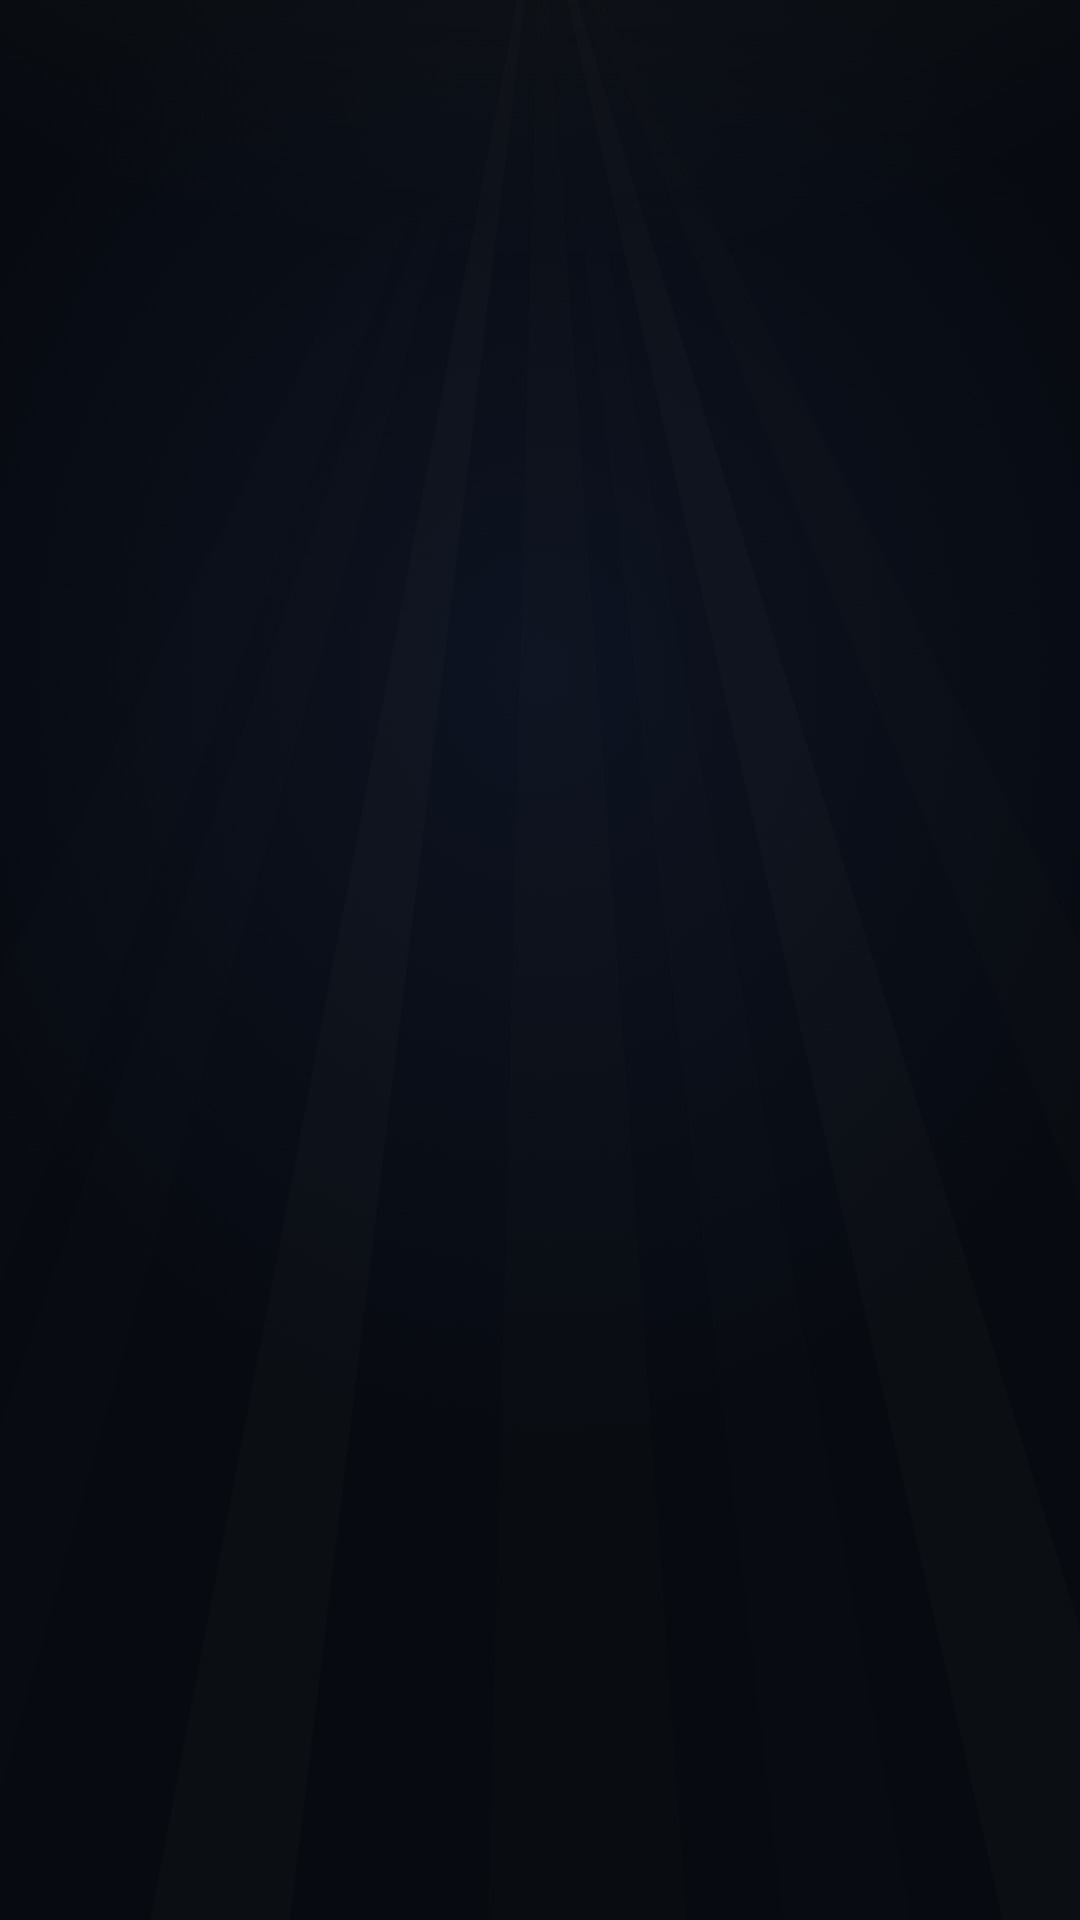
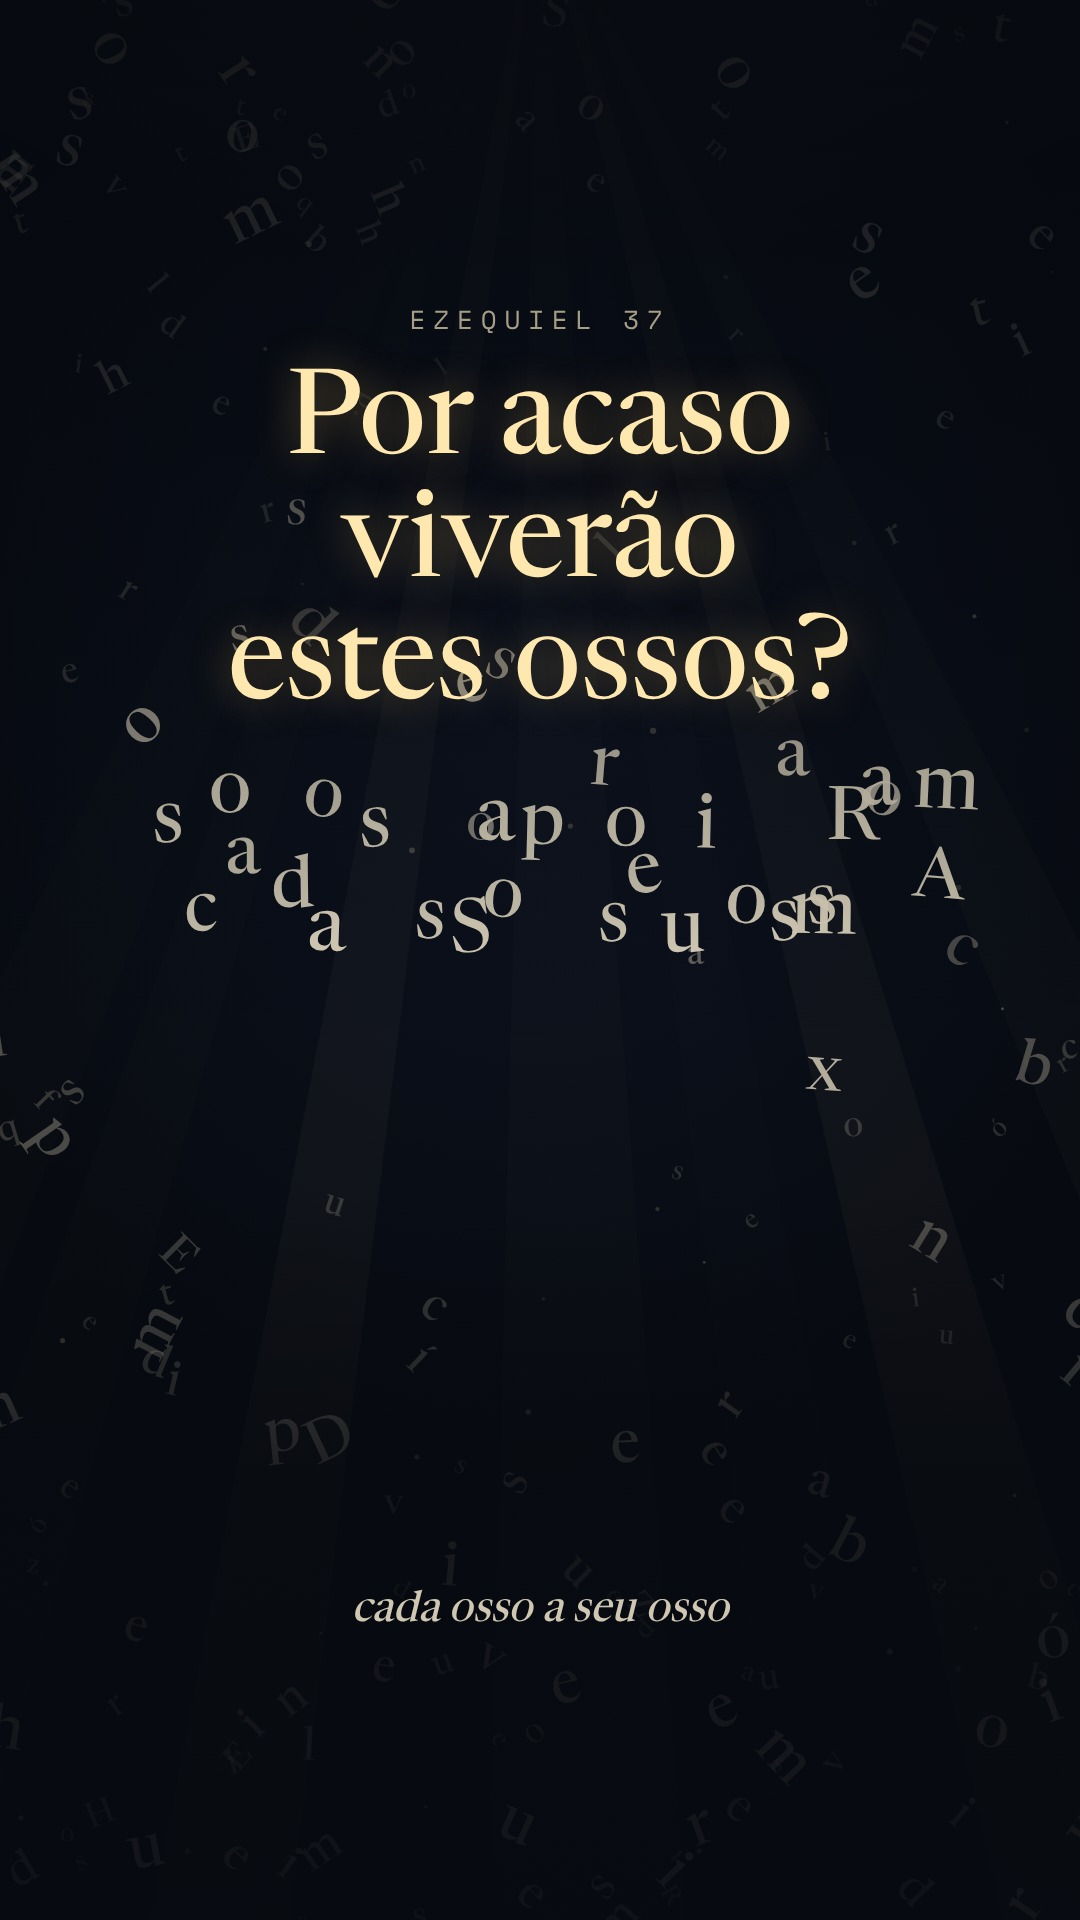
Study 10: a real cover (the letters flying into the verse under the question)
Claude-Session: https://claude.ai/code/session_01UbcywJgqfuy4tyvg6yJnRB

diff --git a/estudos/biblia-ezequiel37/motion/src/Main.tsx b/estudos/biblia-ezequiel37/motion/src/Main.tsx
@@ -1,4 +1,4 @@
-import React from "react";
+import React, {useContext} from "react";
 import {AbsoluteFill, Easing, interpolate, random, useCurrentFrame} from "remotion";
 import "./fonts";
 import data from "./data.json";
@@ -236,7 +236,8 @@ const Spoken: React.FC<{i: number; size: number; top: number; color?: string; we
 
 // ------------------------------------------------------------------------------------------------ the valley (lines 1-10)
 const Valley: React.FC = () => {
-  const f = useCurrentFrame();
+  const fx = useContext(FrameCtx);
+  const f = fx ?? useCurrentFrame();
   const tField = T0(2);
   const tDry = WF(3, "sequissimos");
   const tAsk = T0(4);
@@ -722,3 +723,37 @@ export const Main: React.FC = () => {
     </AbsoluteFill>
   );
 };
+
+
+// ------------------------------------------------------------------------------------------------ the cover
+// the film in the middle of the assembly (bones flying into the verse) under the question, set big
+export const Cover: React.FC = () => {
+  const f = useCurrentFrame();
+  const at = WF(7, "aproximaram") + 14;
+  return (
+    <AbsoluteFill style={{backgroundColor: C.ground}}>
+      <AbsoluteFill style={{opacity: 1}}>
+        <FrameAt frame={at} />
+      </AbsoluteFill>
+      <AbsoluteFill style={{background: "linear-gradient(180deg, rgba(6,9,15,0.82) 0%, rgba(6,9,15,0.35) 34%, rgba(6,9,15,0) 55%)"}} />
+      <div style={{position: "absolute", left: 70, right: 70, top: 300, textAlign: "center"}}>
+        <div style={{fontFamily: F.mono, fontSize: 26, letterSpacing: "0.3em", color: C.bone2}}>EZEQUIEL 37</div>
+        <div style={{fontFamily: F.serif, fontWeight: 500, fontSize: 118, lineHeight: 1.04, color: C.gold2, marginTop: 26, textShadow: `0 0 40px rgba(255,204,107,0.35)`}}>
+          Por acaso<br />viverão<br />estes ossos?
+        </div>
+      </div>
+      <div style={{position: "absolute", left: 70, right: 70, top: 1590, textAlign: "center", fontFamily: F.serif, fontStyle: "italic", fontSize: 42, color: C.bone, opacity: 0.9}}>
+        cada osso a seu osso
+      </div>
+      {f < 0 ? null : null}
+    </AbsoluteFill>
+  );
+};
+
+// renders the valley at a fixed global frame (for the cover)
+const FrameCtx = React.createContext<number | null>(null);
+const FrameAt: React.FC<{frame: number}> = ({frame}) => (
+  <FrameCtx.Provider value={frame}>
+    <Valley />
+  </FrameCtx.Provider>
+);

diff --git a/estudos/biblia-ezequiel37/motion/src/Root.tsx b/estudos/biblia-ezequiel37/motion/src/Root.tsx
@@ -1,16 +1,12 @@
 import React from "react";
 import {Composition} from "remotion";
-import {Main} from "./Main";
+import {Cover, Main} from "./Main";
 import data from "./data.json";
 
 // 1080x1920, 30 fps; the length comes from the narration timeline (tools/motion_data.py)
 export const RemotionRoot: React.FC = () => (
-  <Composition
-    id="Main"
-    component={Main}
-    durationInFrames={Math.ceil(data.duration * data.fps)}
-    fps={data.fps}
-    width={1080}
-    height={1920}
-  />
+  <>
+    <Composition id="Main" component={Main} durationInFrames={Math.ceil(data.duration * data.fps)} fps={data.fps} width={1080} height={1920} />
+    <Composition id="Cover" component={Cover} durationInFrames={1} fps={data.fps} width={1080} height={1920} />
+  </>
 );

diff --git a/estudos/biblia-ezequiel37/cover.py b/estudos/biblia-ezequiel37/cover.py
@@ -1,0 +1,13 @@
+#!/usr/bin/env python3
+"""Cover of "Cada osso a seu osso": a frame of the film in the middle of the assembly (the letters flying into the verse),
+with the question on top. Rendered by Remotion through a prop (motion/src/Cover.tsx), so it is the same material.
+  python3 cover.py  -> renders/capa-cada-osso-a-seu-osso.jpg
+"""
+import subprocess
+from pathlib import Path
+from PIL import Image
+
+ROOT = Path(__file__).resolve().parent
+subprocess.run(["node", "render.mjs", "--cover"], cwd=ROOT / "motion", check=True, capture_output=True)
+Image.open(ROOT / "renders/.stills/cover.png").convert("RGB").save(ROOT / "renders/capa-cada-osso-a-seu-osso.jpg", quality=92)
+print("cover ok")
